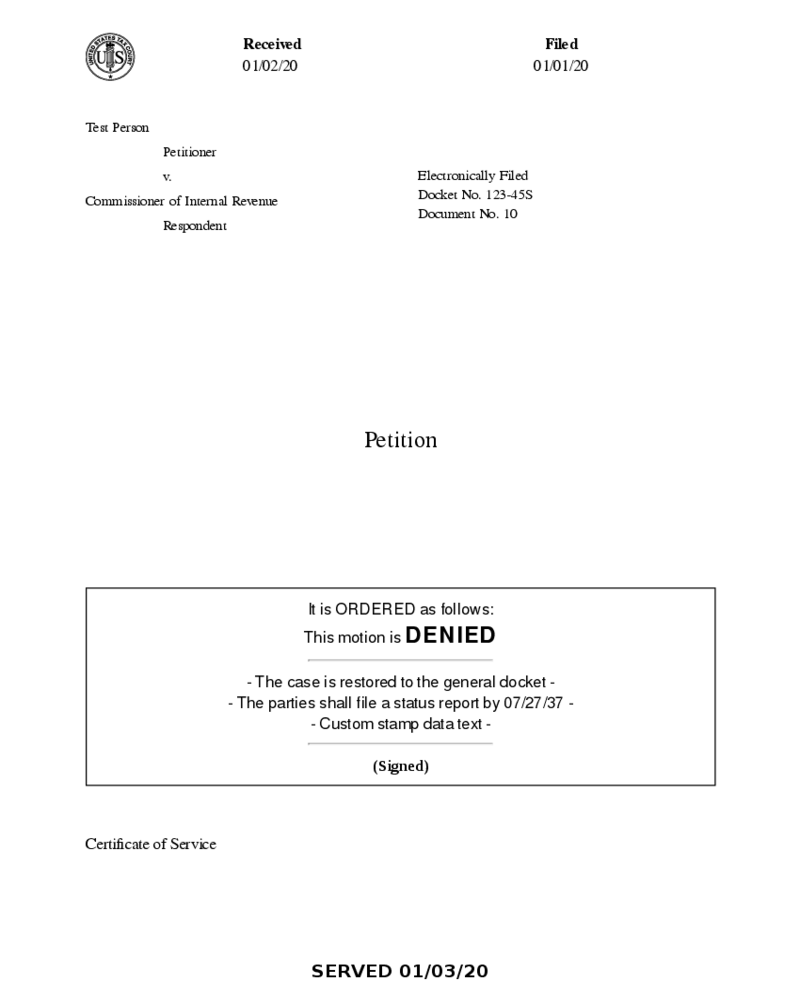
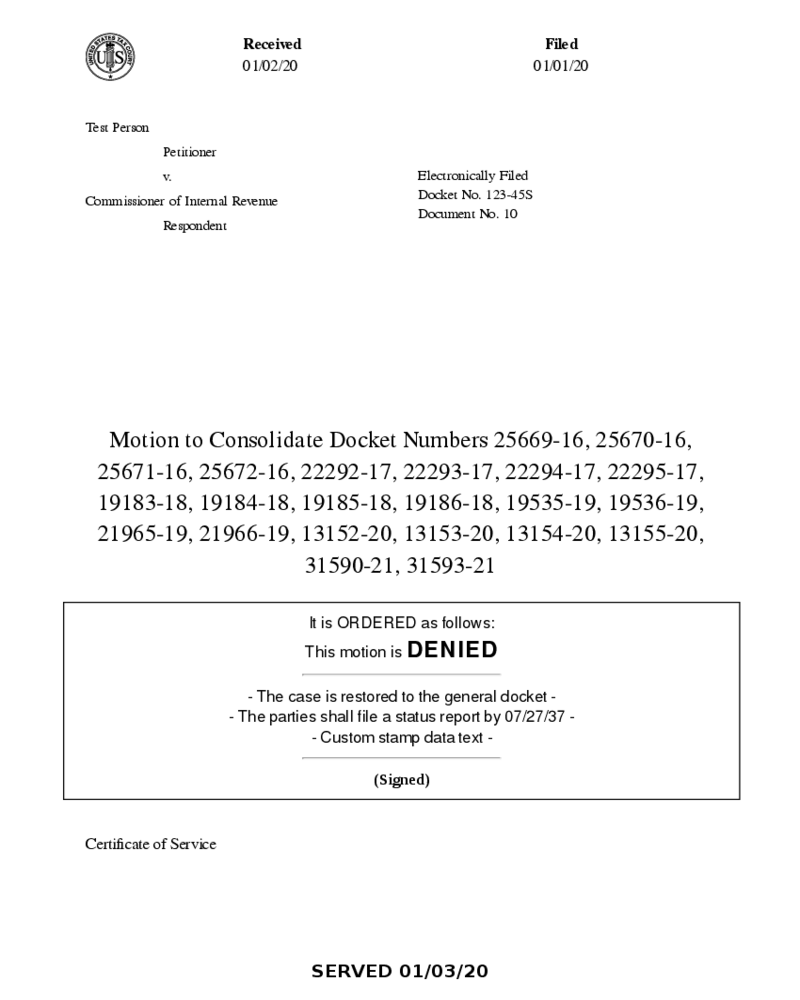
10204: recreate stamped coversheet pdf with new styling and long title

Changed region(s): [[0.0938, 0.434, 0.9375, 0.806]]

diff --git a/shared/src/business/utilities/documentGenerators/coverSheet.test.ts b/shared/src/business/utilities/documentGenerators/coverSheet.test.ts
@@ -91,7 +91,8 @@ describe('coverSheet', () => {
           dateReceived: '01/02/20',
           dateServed: '01/03/20',
           docketNumberWithSuffix: '123-45S',
-          documentTitle: 'Petition',
+          documentTitle:
+            'Motion to Consolidate Docket Numbers 25669-16, 25670-16, 25671-16, 25672-16, 22292-17, 22293-17, 22294-17, 22295-17, 19183-18, 19184-18, 19185-18, 19186-18, 19535-19, 19536-19, 21965-19, 21966-19, 13152-20, 13153-20, 13154-20, 13155-20, 31590-21, 31593-21',
           electronicallyFiled: true,
           index: 10,
           stamp: mockStamp,
